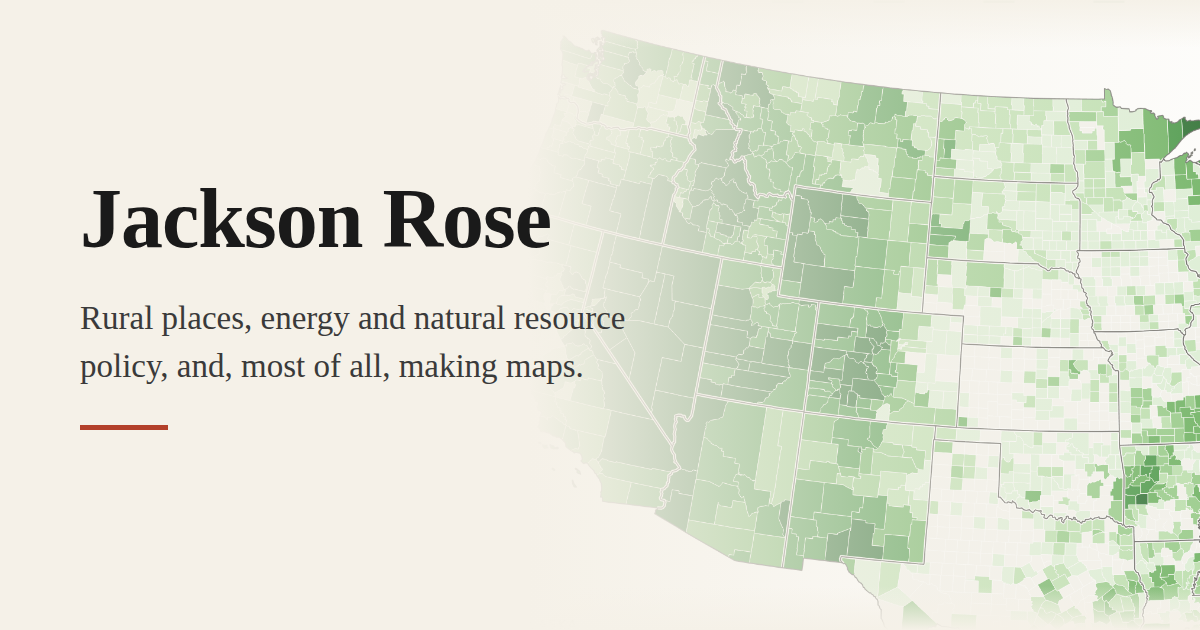
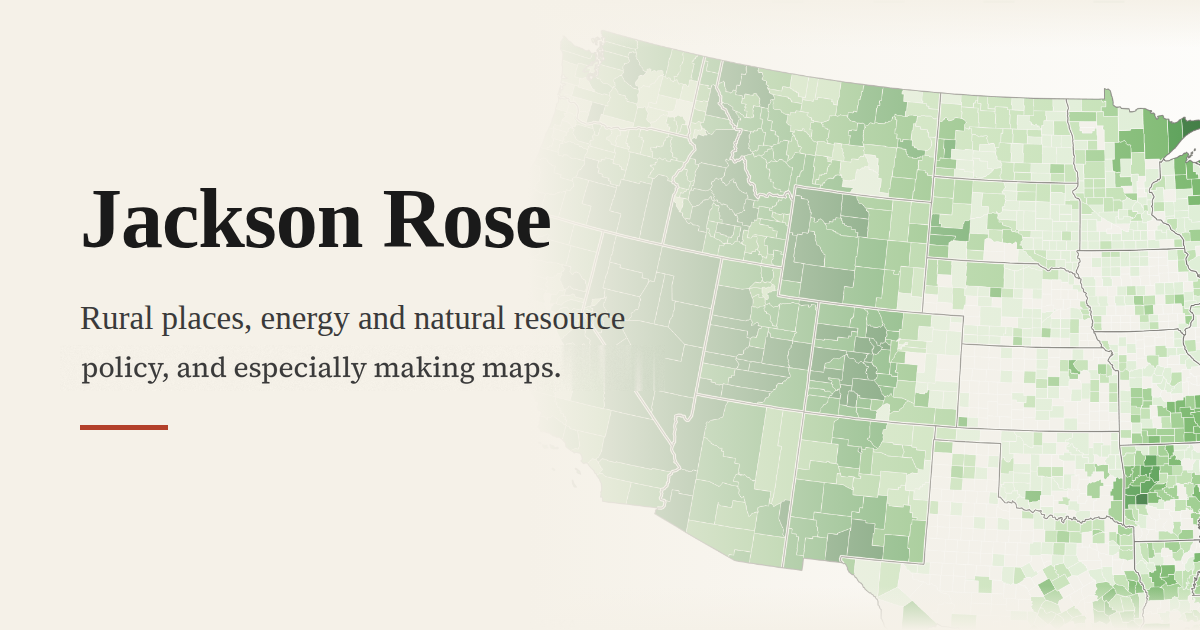
De-AI pass: identity sentence and share card lose 'most of all'; consulting line concrete; estimator opener, CAP line, and jurisdictions sentence rewritten, Approach topic sentence cut

Changed region(s): [[0.0617, 0.5429, 0.4933, 0.6032]]

diff --git a/src/site.ts b/src/site.ts
@@ -53,9 +53,13 @@ export const site = {
    * Identity sentence — SETTLED with Jackson 2026-07-29, written together
    * over several rounds (his calls: first person, high level, love of maps,
    * resources folded into the policy beat). Do not rewrite without him.
+   * 2026-08-14, his call: "most of all" removed; he picked "especially"
+   * over a two-sentence version and a maps-first version. The share card
+   * (public/share-card.png) and its alt in Base.astro carry the same line
+   * and moved with it.
    */
   identitySentence:
-    'I’m a geographer interested in rural places, energy and natural resource policy, and, most of all, making maps.' as string | null,
+    'I’m a geographer interested in rural places, energy and natural resource policy, and especially making maps.' as string | null,
 } as const;
 
 /**

diff --git a/src/content/projects/renewable-energy-revenue-estimator.md b/src/content/projects/renewable-energy-revenue-estimator.md
@@ -68,11 +68,17 @@ hasPage: true
 draft: false
 ---
 
-## Problem
+<!-- 2026-08-14, his direction: header "Problem" -> "Project Context" (this
+page only; the other case studies keep the problem/approach/delivered/
+outcome shape) and the opener rewritten to his supplied wording, with his
+typo fixed and "in terms of" trimmed. -->
 
-When a utility-scale energy project is proposed in Arizona, the first
-question local officials ask is what it would actually pay, and to whom.
-That answer was hard to get.
+## Project Context
+
+When a utility-scale energy project is proposed in Arizona, developers,
+policymakers, and rural communities want to know what it would mean in
+revenue over the life of the project. This tool helps answer that
+question.
 
 Property tax on generation equipment runs through a valuation statute with
 its own assessment factor and depreciation schedule. The resulting money
@@ -84,18 +90,29 @@ payments take its place. Getting from "a 200 MW solar project here" to
 "this much to this school district over 25 years" meant assembling data
 that had never been in one place.
 
-The Center for American Progress commissioned the work for the Arizona
-Governor's Office of Resiliency.
+<!-- 2026-08-14, his direction, "commissioned" -> "in partnership with".
+Still names CAP as the direct relationship and the Arizona office as the
+end user; the standing rule holds — no copy implying he was engaged
+directly by the State. -->
+The work was done in partnership with the Center for American Progress for
+the Arizona Governor's Office of Resiliency.
 
 ## Approach
 
-The work had a spatial half and a fiscal half, built to check each other.
+<!-- 2026-08-14, his call: the opener "The work had a spatial half and a
+fiscal half, built to check each other." (the plainer option he picked in
+the 08-05 pass) read as a consultant topic sentence and was CUT rather
+than rewritten — the next two paragraphs already open "On the spatial
+side" / "On the fiscal side", and the cross-checking claim lives in What
+was delivered (672 scenarios, match to the cent). -->
 
-On the spatial side, every taxing jurisdiction in Arizona was standardized
-into one consistent statewide layer: counties and school districts from
-Census TIGER/Line, fire service areas and other districts from state and
-agency GIS services, incorporated places filtered to those that actually
-levy. Overlapping school boundaries were intersected into composite tax
+<!-- 2026-08-14, his correction: it is many layers, not one statewide
+layer. Source attributions unchanged. -->
+On the spatial side, boundary data for every kind of taxing jurisdiction
+in Arizona was pulled together and cleaned to a common standard: counties
+and school districts from Census TIGER/Line, fire service areas and other
+districts from state and agency GIS services, and incorporated places
+filtered to those that actually levy. Overlapping school boundaries were intersected into composite tax
 units so that any point resolves to exactly one unit. Land ownership was
 dissolved into four non-overlapping taxability buckets, with priority given
 to the non-taxable categories where source polygons disagree, because
